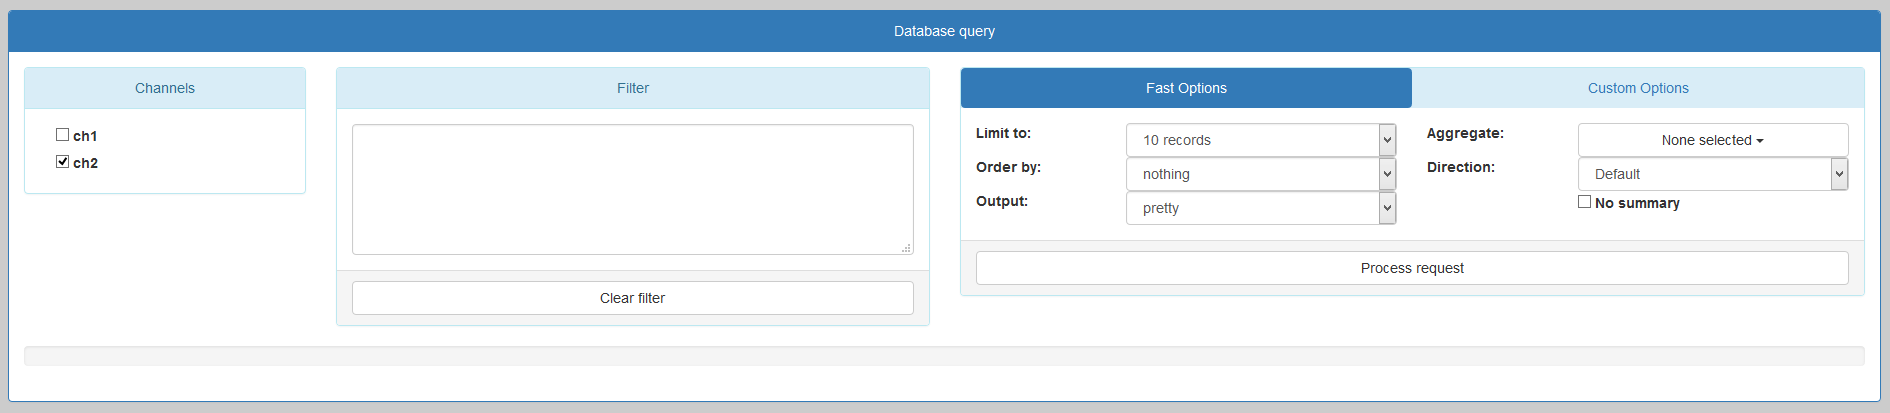
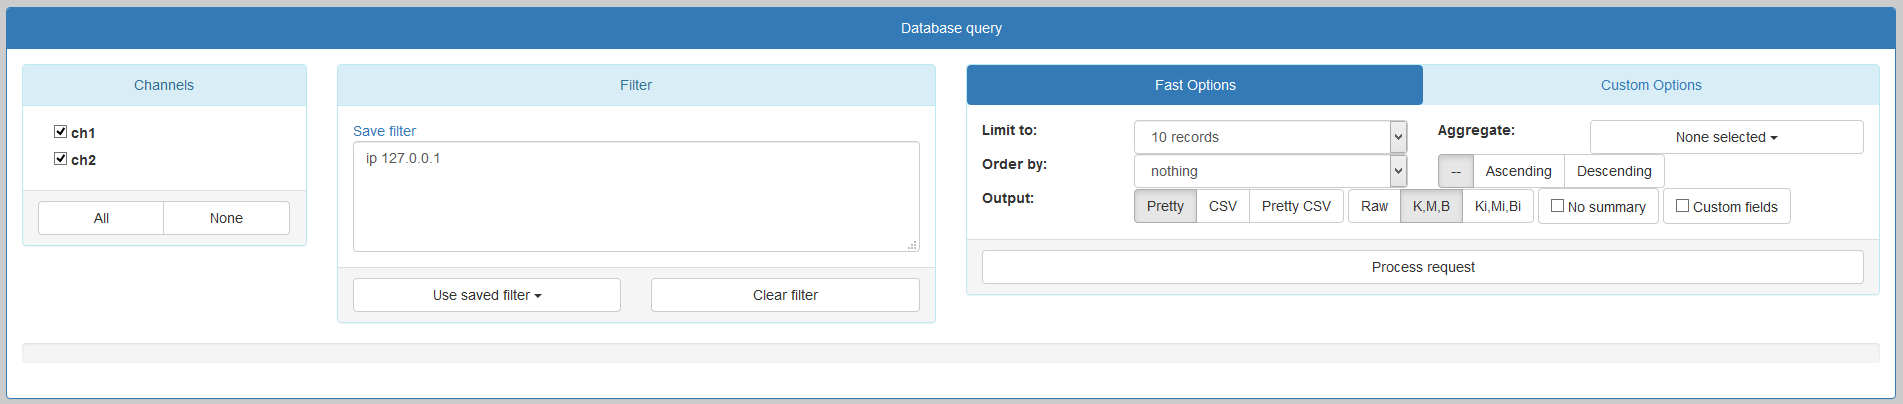
Add filter expression storage

diff --git a/web/js/filter.js b/web/js/filter.js
@@ -1,0 +1,59 @@
+var Filter = {
+	insertFilter(filterText) {
+		document.getElementById("Dbqry_Filter_1").value = filterText;
+	}, 
+	
+	redrawFilterList : function(list) {
+		var dom = document.getElementById("SavedFilterList");
+		
+		dom.innerHTML = "";
+		for (var i = 0; i < list.length; i++) {
+			dom.innerHTML += "<li><a href='#filter' onclick='Filter.insertFilter(\"" + list[i].filter + "\")'>" + list[i].name + "</a></li>";
+		}
+	},
+	
+	loadFilterList : function() {
+		var ajax = Utility.initAjax();
+	
+		ajax.onreadystatechange = function() {
+			if(ajax.readyState == 4) {
+				var data = JSON.parse(ajax.responseText);
+				
+				if (data.status != "success") {
+					alert("Could not load saved filters!\n" + data.message);
+					return;
+				}
+				
+				Filter.redrawFilterList(data.data);
+			}
+		}
+		
+		ajax.open("GET", "php/async/filterManager.php?action=load&nocache=" + new Date().getTime(), true);
+		ajax.send();
+	},
+	
+	saveFilter : function() {
+		var nameDOM = document.getElementById("DbqrySavedFilterName");
+		var name = nameDOM.value;
+		nameDOM.value = "";
+		var filter = document.getElementById("Dbqry_Filter_1").value;
+		
+		var ajax = Utility.initAjax();
+	
+		ajax.onreadystatechange = function() {
+			if(ajax.readyState == 4) {
+				var data = JSON.parse(ajax.responseText);
+				
+				if (data.status != "success") {
+					alert("Could not save filter!\n" + data.message);
+					return;
+				}
+				
+				Filter.loadFilterList();
+			}
+		}
+		
+		ajax.open("GET", "php/async/filterManager.php?action=save&name=" + name + "&filter=" + filter + "&nocache=" + new Date().getTime(), true);
+		ajax.send();
+	}
+}

diff --git a/web/js/core.js b/web/js/core.js
@@ -3,6 +3,8 @@ var Core = {
 	initWorkbench : function() {
 		gotoWindow("Workbench");
 		acquireGraphData(initializeGraph, null);
+		toggleFieldsSelector();
+		Filter.loadFilterList();
 	},
 	
 	swapCheck : function () {

diff --git a/web/js/utility.js b/web/js/utility.js
@@ -67,5 +67,5 @@ var Utility = {
 	openInNewTab : function (url) {
 		var win = window.open(url, '_blank');
 		win.focus();
-	},
+	}
 }

diff --git a/web/php/async/filterManager.php b/web/php/async/filterManager.php
@@ -1,0 +1,49 @@
+<?php
+	header("Expires: Mon, 26 Jul 1997 05:00:00 GMT");
+	header("Last-Modified: ".gmdate('D, d M Y H:i:s')." GMT");
+	header("Cache-Control: no-cache, must-revalidate");
+	header("Pragma: no-cache");
+?>
+<?php
+	include '../config.php';
+
+	if (!isset($_GET['action'])) {
+		echo '{"status": "failure", "message": "No action parameter!" data: []}';
+		exit(1);
+	}
+	$action = $_GET['action'];
+	
+	if ($action == "load") {
+		// Load all filters and their names from dedicated file and send them back
+		$file = fopen($FILTER_STORAGE_PATH, "r");
+		$output = "";
+		if ($file != NULL) {
+			while (($line = fgetcsv($file)) !== FALSE) {
+				if ($line != NULL && sizeof($line) == 2) {
+					$output .= '{"name": "'.$line[0].'", "filter": "'.$line[1].'"},';
+				}
+			}
+			$output = substr($output, 0, -1);
+			fclose($file);
+		}
+		
+		echo '{"status":"success", "data": ['.$output.']}';
+	}
+	else if ($action == "save") {
+		// Append new filter to dedicated file
+		if (!isset($_GET['name']) || !isset($_GET['filter'])) {
+			echo '{"status": "failure", "message": "No name or filter parameter!" data: []}';
+		}
+		$name = $_GET['name'];
+		$filter = $_GET['filter'];
+		
+		if (($file = fopen($FILTER_STORAGE_PATH, "a")) == false) {
+			echo '{"status": "failure", "message": "Could not open file for storing filters!" data: []}';
+			exit(1);
+		}
+		fwrite($file, "\"$name\",\"$filter\"\n");
+		fclose($file);
+		
+		echo '{"status": "success", "data": []}';
+	}
+?>

diff --git a/web/php/async/dbqry.php b/web/php/async/dbqry.php
@@ -56,12 +56,12 @@ function execDbRequest() {														// This gets called when this thread is 
 		unset($path);
 
 		// What will be printed to user
-		$cmdBackup  = "$MPIEXEC_CMD $MPIEXEC_ARGS "; // -env OMP_NUM_THREADS 4
+		$cmdBackup  = "$MPIEXEC_CMD $MPIEXEC_ARGS ";
 		$cmdBackup .= "$FDISTDUMP_CMD $filter $opts ";
 		$cmdBackup .= implode(" ", $pathsArr);
 
 		// What will be executed
-		$cmd  = "$MPIEXEC_CMD $MPIEXEC_ARGS "; // -env OMP_NUM_THREADS 4
+		$cmd  = "$MPIEXEC_CMD $MPIEXEC_ARGS ";
 		$cmd .= "$FDISTDUMP_CMD $filter $opts --progress-bar-type=json --progress-bar-dest=".$TMP_DIR.$stamp.".$tab.json ";
 		$cmd .= implode(" ", $pathsArr);
 	}
@@ -73,12 +73,12 @@ function execDbRequest() {														// This gets called when this thread is 
 
 		// What will be printed to user
 		$cmdBackup  = "$FDISTDUMP_HA_CMD ".implode(" ", $pathsArr)." ";
-		$cmdBackup .= "$MPIEXEC_CMD -env OMP_NUM_THREADS 4 ";
+		$cmdBackup .= "$MPIEXEC_CMD $MPIEXEC_ARGS ";
 		$cmdBackup .= "$FDISTDUMP_CMD $filter $opts";
 
 		// What will be executed
 		$cmd  = "$FDISTDUMP_HA_CMD ".implode(" ", $pathsArr)." "; // NOTE: add --verbose for debug
-		$cmd .= "$MPIEXEC_CMD -env OMP_NUM_THREADS 4 ";
+		$cmd .= "$MPIEXEC_CMD $MPIEXEC_ARGS ";
 		$cmd .= "$FDISTDUMP_CMD $filter $opts --progress-bar-type=json --progress-bar-dest=".$TMP_DIR.$stamp.".$tab.json";
 	}
 

diff --git a/web/php/config_sample.php b/web/php/config_sample.php
@@ -21,7 +21,7 @@
 	$FDISTDUMP_CMD		= '/usr/lib64/mpich/bin/fdistdump_mpich';
 	$FDISTDUMP_HA_CMD	= 'fdistdump-ha';
 	$MPIEXEC_CMD		= '/usr/lib64/mpich/bin/mpiexec';
-	$MPIEXEC_ARGS		= '-n 2';
+	$MPIEXEC_ARGS		= '-n 2'; // -env OMP_NUM_THREADS 4
 	$RRDTOOL_CMD		= '/opt/rrdtool-1.7.0/bin/rrdtool';
 
 	/* =========== */
@@ -57,4 +57,8 @@
 
 	// How ipfixcol-filter-check will be executed. Should be in $PATH by default
 	$IPFIXCOL_FILTER_CHECK = 'ipfixcol-filter-check';
+	
+	// Also make sure this file exists and apache has RW permissions for it
+	// This file is meant for storing filter expressions from GUI
+	$FILTER_STORAGE_PATH = '/data/filters.txt';
 ?>

diff --git a/web/php/dbqry/dbqryAddFilterModal.php b/web/php/dbqry/dbqryAddFilterModal.php
@@ -10,12 +10,12 @@
 				<div class="form-group">
 					<label for="fname">Filter name</label>
 					<input class="form-control" type="text"
-					placeholder="Use short filter description" name="fname" required />
+					placeholder="Use short filter description" id="DbqrySavedFilterName" required />
 				</div>
 			</div>
 			
 			<div class="modal-footer">
-				<a href="#" class="btn btn-primary" data-dismiss="modal" onclick="dbqrySaveFilter();">Save</a>
+				<a href="#" class="btn btn-primary" data-dismiss="modal" onclick="Filter.saveFilter();">Save</a>
 				<a href="#" class="btn btn-default" data-dismiss="modal">Close</a>
 			</div>
 		</div>

diff --git a/web/php/dbqry/dbqryTabContent.php b/web/php/dbqry/dbqryTabContent.php
@@ -45,9 +45,7 @@
 							Use saved filter
 							<span class="caret"></span>
 						</button>
-						<ul class="dropdown-menu">
-							<!--li><a href="#">Dropdown link</a></li-->
-						</ul>
+						<ul class="dropdown-menu" id="SavedFilterList"></ul>
 					</div>
 					<div class="col-md-6">
 						<button class="btn btn-default btn-block" onclick="Local_clearTextarea(<?php echo $tab; ?>);">

diff --git a/web/index.php b/web/index.php
@@ -194,8 +194,6 @@
 		// *** ALL SET, INITIALIZE ***
 		Core.initResolution(resolutionPtr);		
 		Core.initWorkbench();
-		
-		toggleFieldsSelector()
 	});
 	</script>
 </body>

diff --git a/web/php/misc/jsInclude.php b/web/php/misc/jsInclude.php
@@ -18,3 +18,4 @@
 <script src="js/profiles.js"></script>
 <script src="js/core.js"></script>
 <script src="js/default.js"></script>
+<script src="js/filter.js"></script>

diff --git a/README.md b/README.md
@@ -84,7 +84,12 @@ automatically updated when the new profile is added or when another gets removed
 su apache --shell "/bin/bash" -c "ipfixcol -c /data/startup.xml -v 2 -p /data/pidfile.txt -d"
 ```
 
-At this point, if your webserver is set up properly, the GUI should work.
+One last thing before you can actually boot up the GUI. User can store their filter expression for
+later use. This file is identified by config value FILTER_STORAGE_PATH. If this points to location
+where apache has RW permissions, the filter save and loading will work just fine. If you wish
+to have file with stored filters somewhere else, please create that file and give it proper
+permissions and ownership. Filter storage file has a very basic CSV structure and thus can be easily edited by hand if the
+neccessity arises.
 
 ## <a name="historic"></a> Analyzing historical data
 It may happen to you that you only have a bunch of nfdump files and you want to analyze them with
